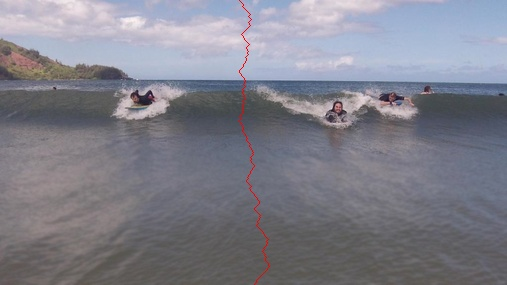
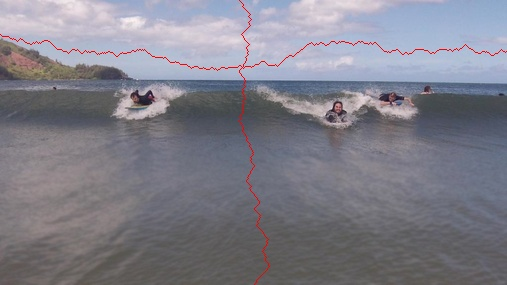
horizontal

diff --git a/main.py b/main.py
@@ -57,7 +57,48 @@ class SeamCarver:
         Sequence of indices for the horizontal seam.
         :return: A list of column indices.
         """
+        en_mat = self.energy_matrix()
+        # dp[i][j] = minimum energy of seam ending at (i, j)
+        dp = [[0 for _ in range(self.width())] for _ in range(self.height())]
 
+        # make a matrix to contain the path. path[i][j] = r) means that the seam ending at (i, j) came from row r, column c-1
+        path = [[(0, 0) for _ in range(self.width())] for _ in range(self.height())]
+
+        # initialize the first column
+        for i in range(self.height()):
+            dp[i][0] = en_mat[i][0]
+
+        # fill the dp table
+        for c in range(1, self.width()):
+            for r in range(self.height()):
+                up = r - 1 if r > 0 else r
+                down = r + 1 if r < self.height() - 1 else r
+
+                prevcost = min(dp[up][c - 1], dp[r][c - 1], dp[down][c - 1])
+                dp[r][c] = en_mat[r][c] + prevcost
+
+                if (prevcost == dp[up][c - 1]):
+                    path[r][c] = up
+                elif (prevcost == dp[r][c - 1]):
+                    path[r][c] = r
+                else:
+                    path[r][c] = down
+        
+        # find the minimum cost in the last column
+        min_cost = min([dp[i][self.width() - 1] for i in range(self.height())])
+
+        # backtrack to find the seam
+        seam = []
+        
+        # check last column
+        min_index = [dp[i][self.width() - 1] for i in range(self.height())].index(min_cost)
+
+        seam.append(min_index)
+        for c in range(self.width() - 1, 0, -1):
+            min_index = path[min_index][c]
+            seam.append(min_index)
+        seam.reverse()
+        return seam
 
     def find_vertical_seam(self):
         """
@@ -104,14 +145,28 @@ class SeamCarver:
         seam.reverse()
         return seam
                 
-            
+    def draw_vertical_seam(self, seam):
+        """
+        Draw the vertical seam on the current picture.
+        :param seam: List of row indices representing the seam.
+        """
+        for i in range(self.height()):
+            self.picture[i][seam[i]] = [0, 0, 255]
+    
+    def draw_horizontal_seam(self, seam):
+        """
+        Draw the horizontal seam on the current picture.
+        :param seam: List of column indices representing the seam.
+        """
+        for i in range(self.width()):
+            self.picture[seam[i]][i] = [0, 0, 255]
 
     def remove_horizontal_seam(self, seam):
         """
         Remove horizontal seam from the current picture.
         :param seam: List of column indices representing the seam.
         """
-        raise NotImplementedError("Remove horizontal seam not implemented.")
+        
 
     def remove_vertical_seam(self, seam):
         """
@@ -162,6 +217,10 @@ if __name__ == "__main__":
     # Visualize the vertical seam on the image
     for i in range(height):
         picture[i][vertical_seam[i]] = [0, 0, 255]
+
+    horizontal_seam = sc.find_horizontal_seam()
+    for i in range(width):
+        picture[horizontal_seam[i]][i] = [0, 0, 255]
     
     # Save the image with the seam visualized.
     cv2.imwrite("sample_seam.jpg", picture)
